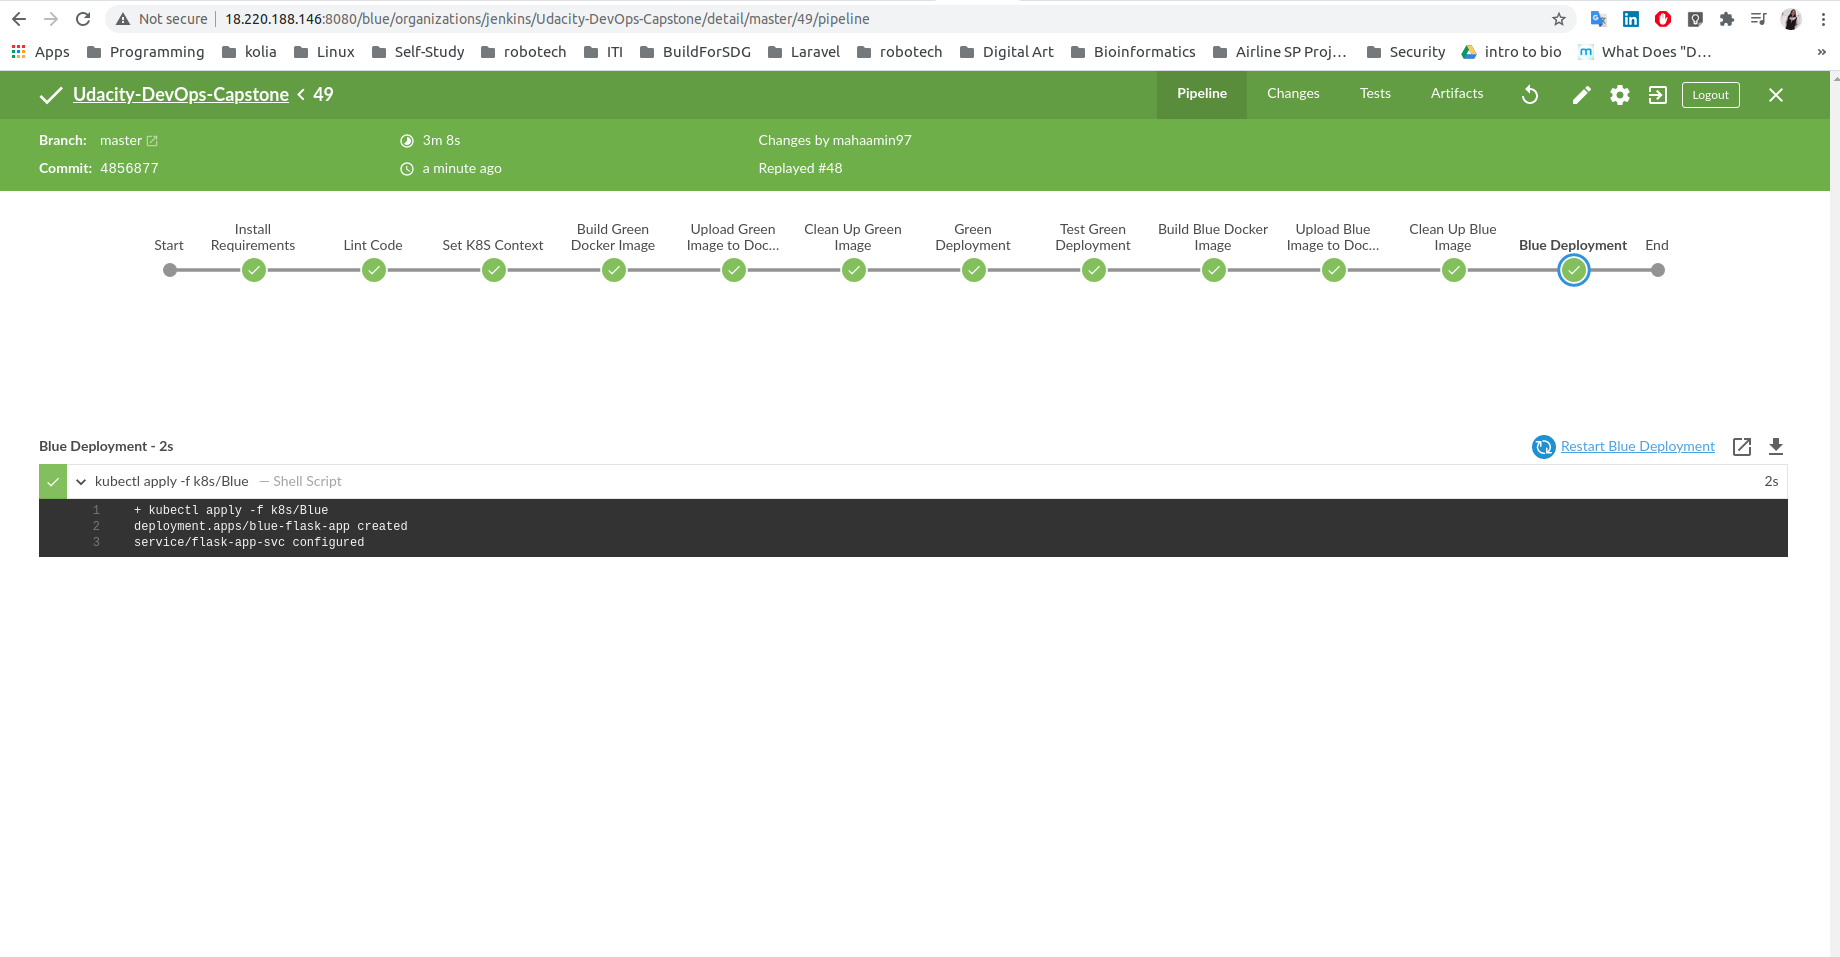
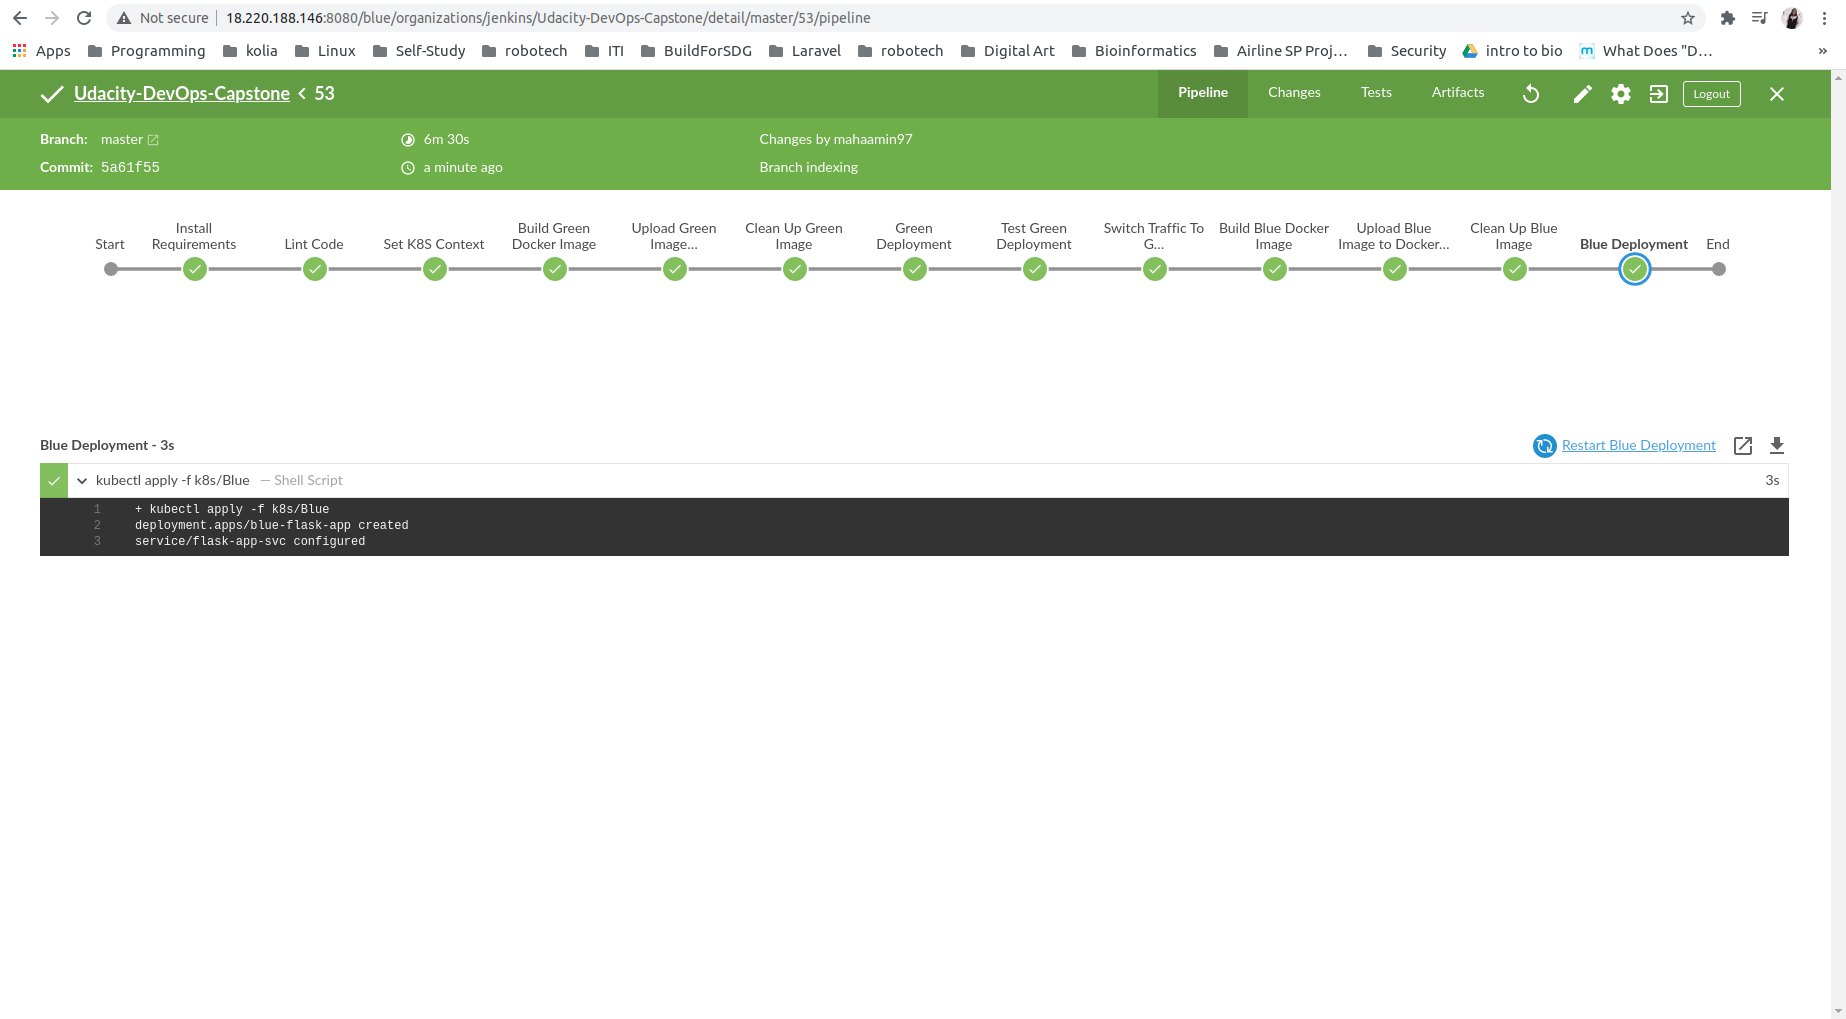
green deployment failed

Changed region(s): [[0.0, 0.0, 1.0, 0.303], [0.0, 0.4242, 0.9913, 0.6061]]

diff --git a/app.py b/app.py
@@ -10,4 +10,4 @@ def index():
     """
     main route
     """
-    return render_template('blue.html')
+    return render_template('green.html')
